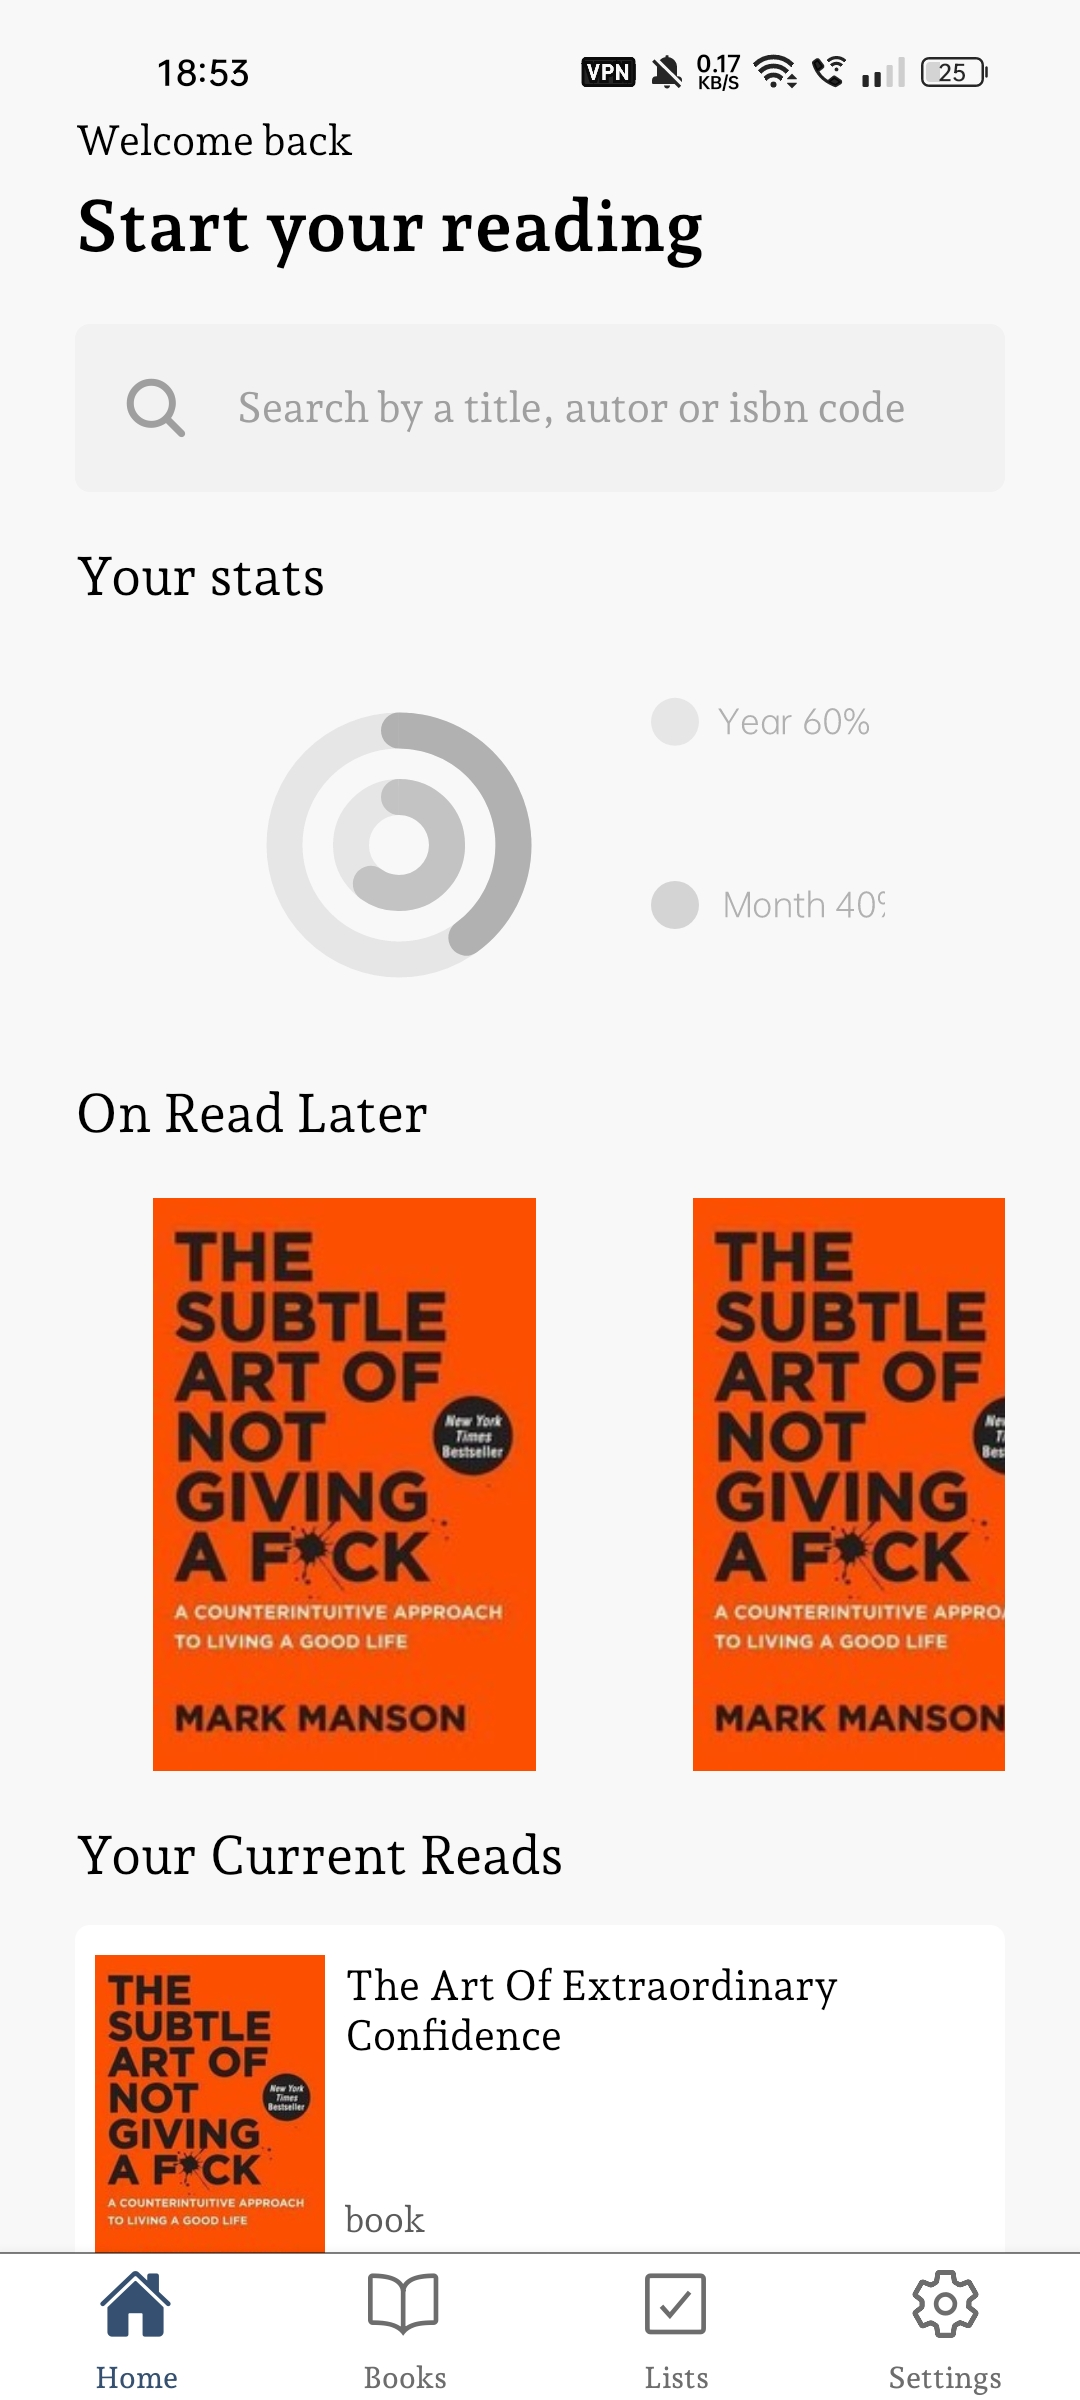
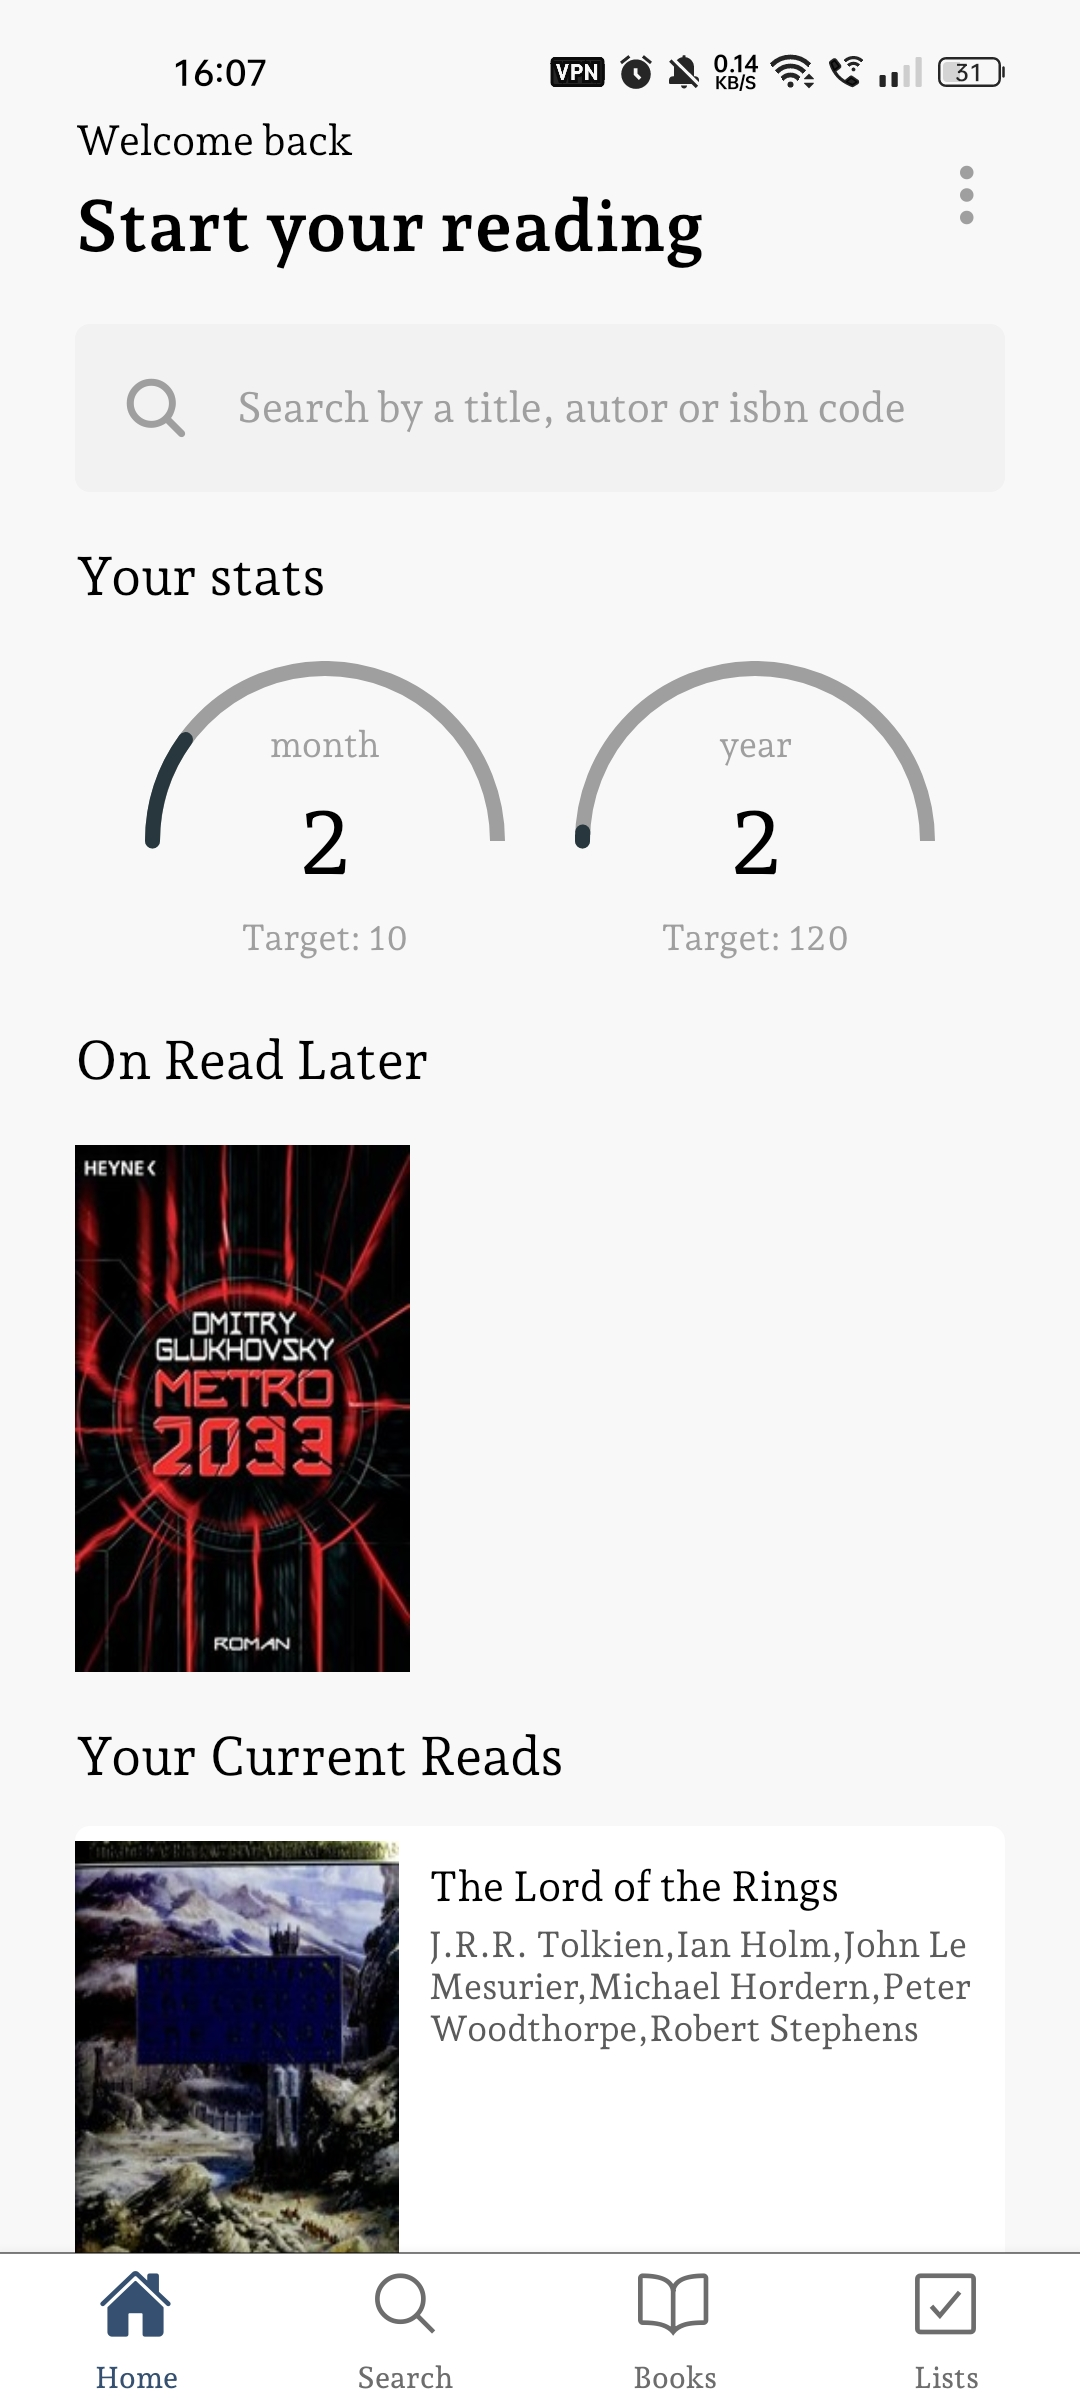
New BookApp images

diff --git a/src/components/sections/work/info.ts b/src/components/sections/work/info.ts
@@ -6,6 +6,8 @@ import NewLife from "./images/newLife.webp";
 
 import BookAppMain from "./images/bookapp_main.webp";
 import BookAppSearch from "./images/bookapp_search.webp";
+import BookAppSingle from "./images/bookapp_single.webp";
+import BookAppList from "./images/bookapp_list.webp";
 
 export const info = [
   {
@@ -14,7 +16,7 @@ export const info = [
     description: "w5Long",
     labels: ["React Native", "TypeScript", "SQLite", "Redux"],
     leftLabel: ["wTeam"],
-    images: [BookAppMain, BookAppSearch],
+    images: [BookAppMain, BookAppSingle, BookAppSearch, BookAppList],
     links: [
       {
         name: "wSource",
